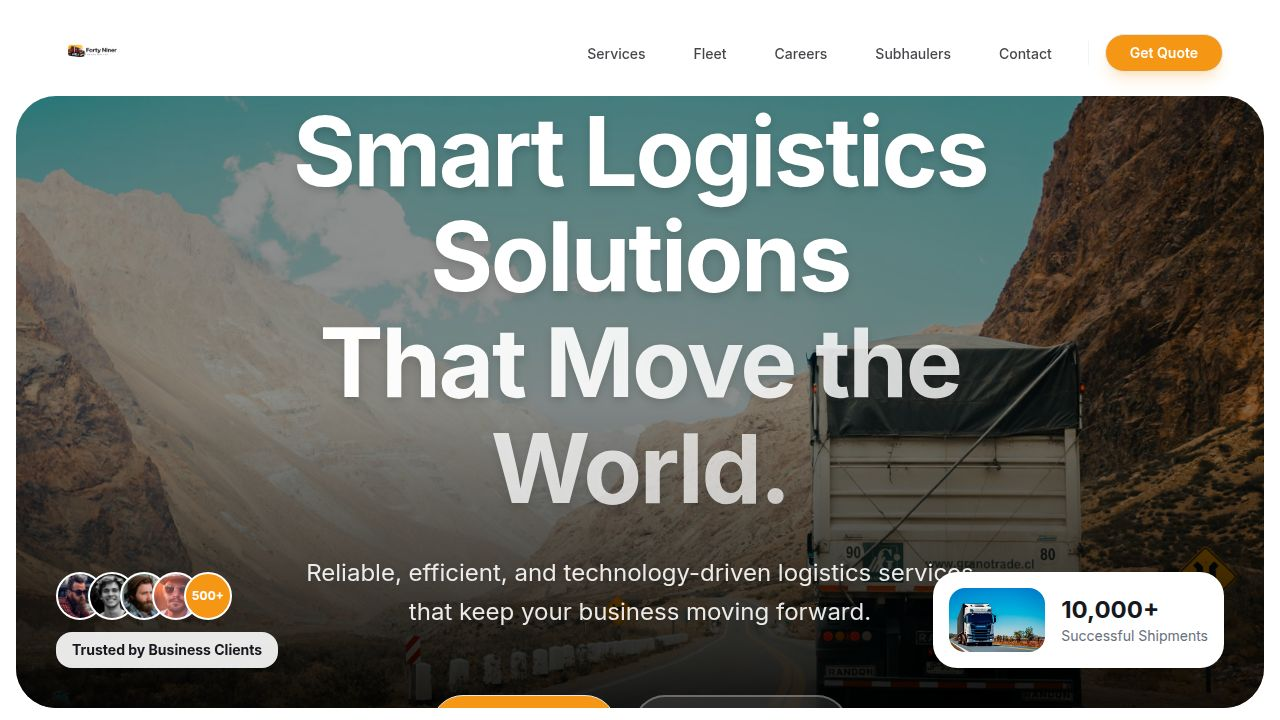
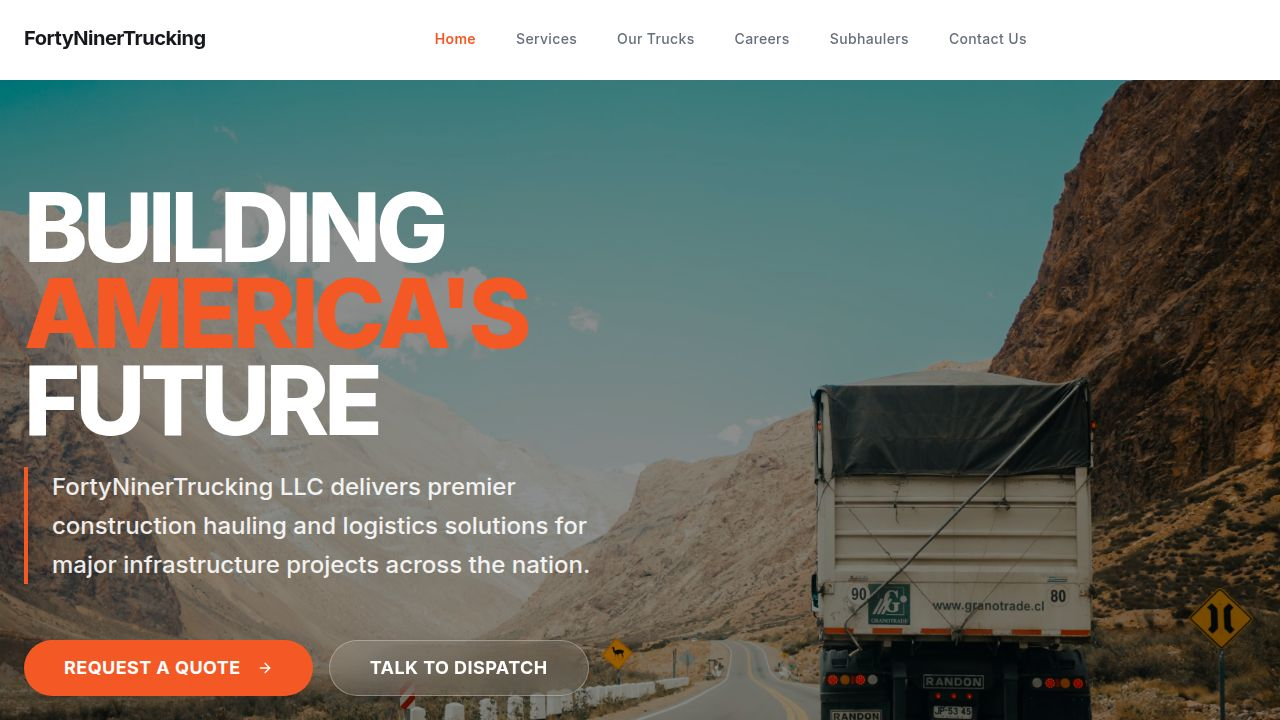
Update navigation link to "Our Trucks"
Rename the "Fleet" navigation link to "Our Trucks" in the Navbar component.

Replit-Commit-Author: Agent
Replit-Commit-Session-Id: 8c545bd8-3861-4e10-b893-73e8ae926bbb
Replit-Commit-Checkpoint-Type: full_checkpoint
Replit-Commit-Event-Id: 1ddd28de-f30a-4f1c-8001-3205228284fe
Replit-Commit-Screenshot-Url: https://storage.googleapis.com/screenshot-production-us-central1/74c87e2d-ebef-452a-bdc8-60aabaeb0e62/8c545bd8-3861-4e10-b893-73e8ae926bbb/2JvUPDN
Replit-Helium-Checkpoint-Created: true

diff --git a/client/src/components/Navbar.tsx b/client/src/components/Navbar.tsx
@@ -18,7 +18,7 @@ export function Navbar() {
   const navLinks = [
     { name: "Home", href: "/" },
     { name: "Services", href: "/services" },
-    { name: "Fleet", href: "/fleet" },
+    { name: "Our Trucks", href: "/fleet" },
     { name: "Careers", href: "/careers" },
     { name: "Subhaulers", href: "/subhaulers" },
     { name: "Contact Us", href: "/contact" }
